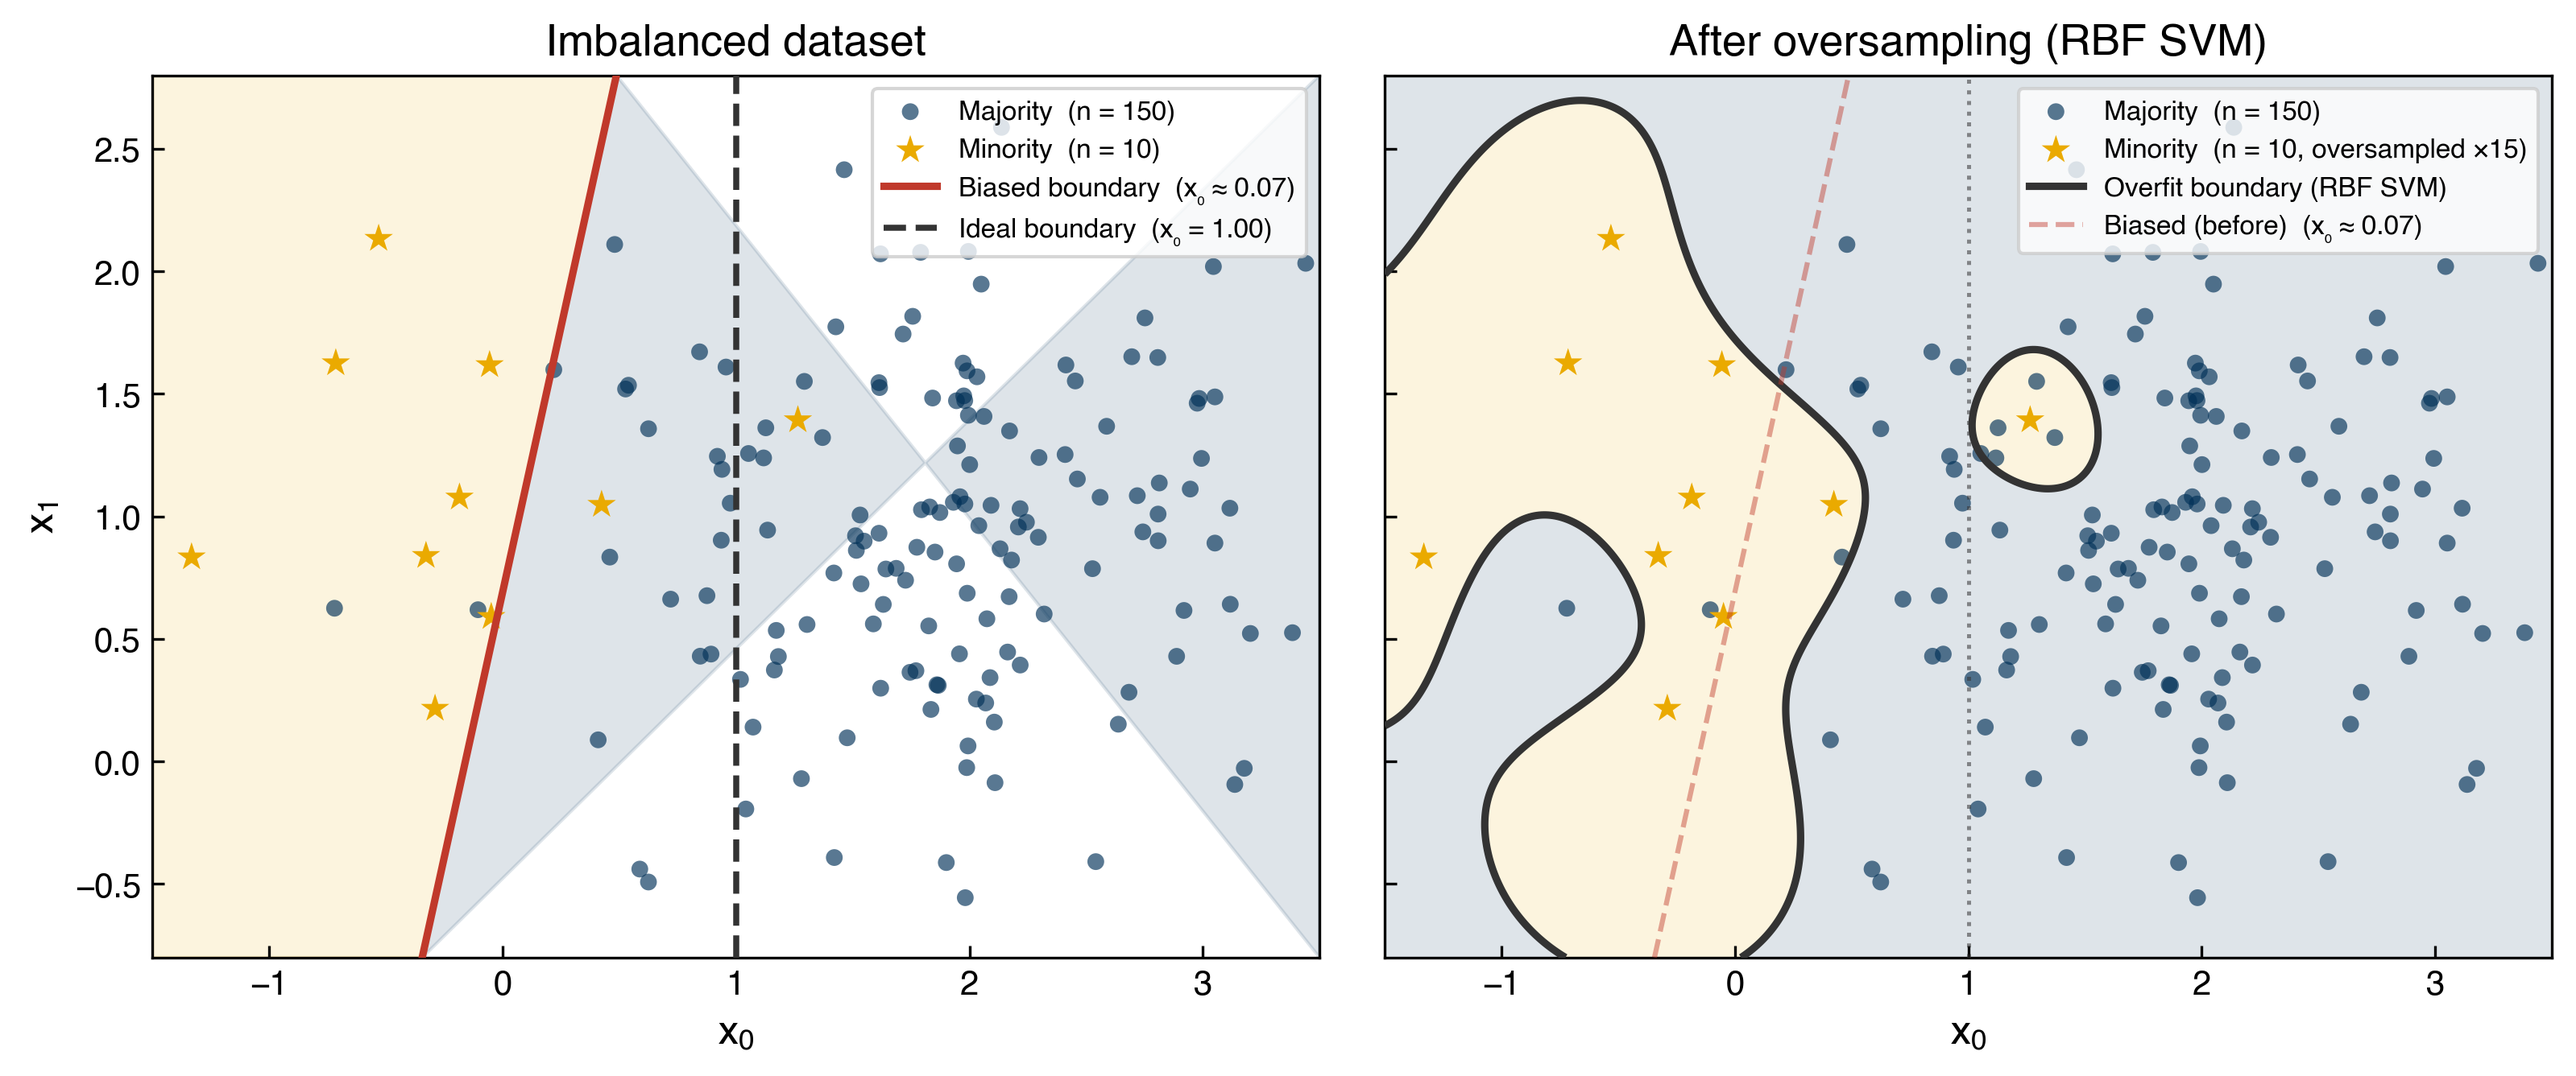
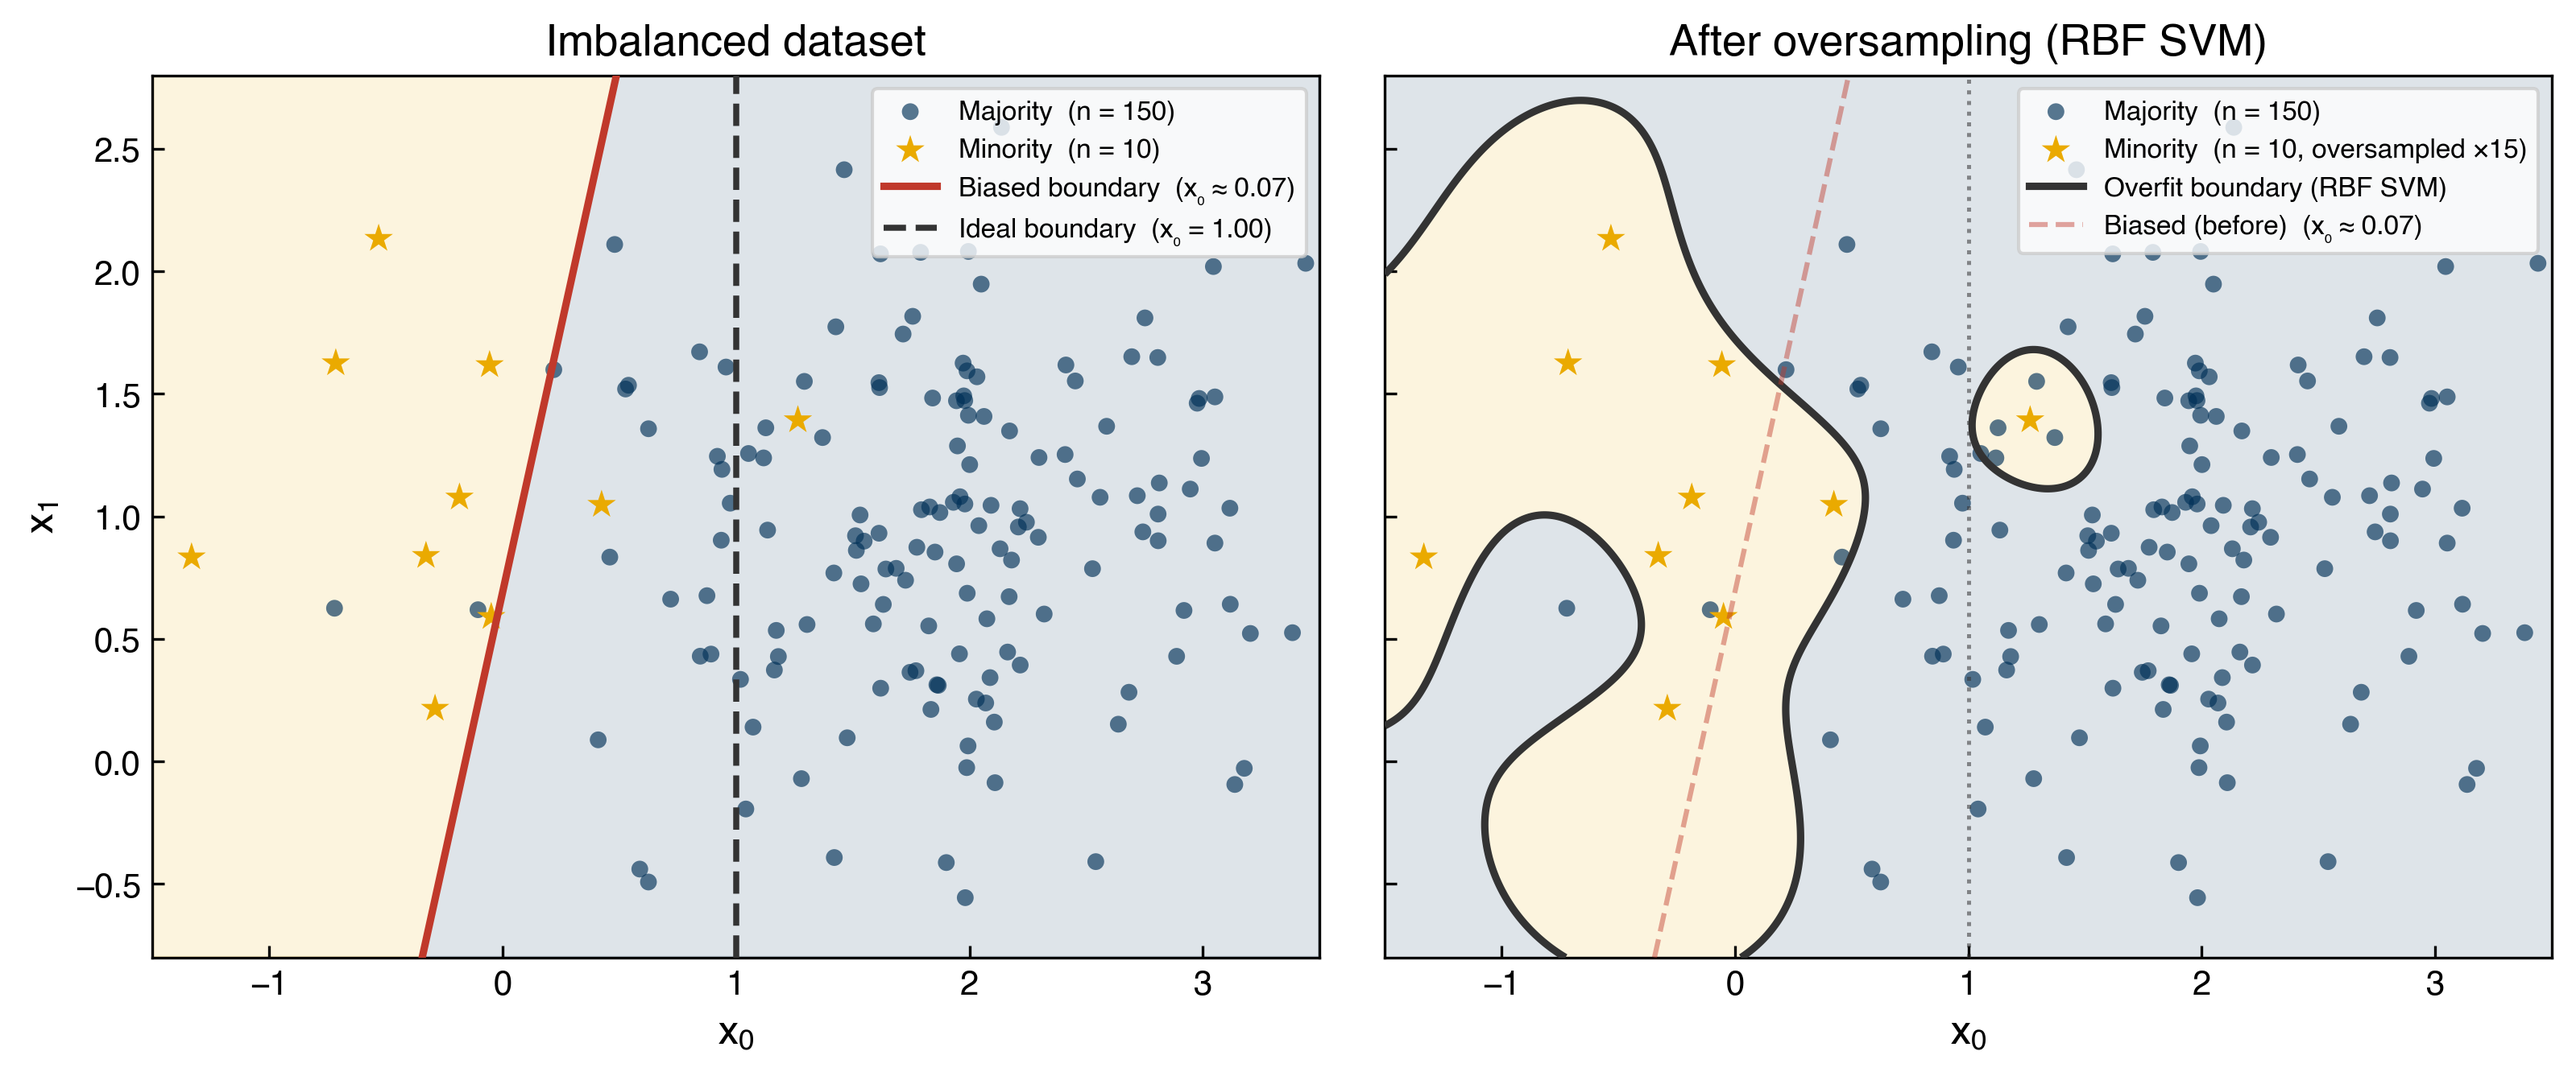
Fix self-intersecting polygon fill in undersampling/oversampling/SMOTE figures
The right half-plane polygon was constructed with reversed boundary arrays,
creating a self-intersecting path that rendered as a cross-hatch pattern.
Fix: trace boundary bottom-to-top for both polygons, anchored on opposite
sides (x_lim[0] vs x_lim[1]).

Changed region(s): [[0.1548, 0.0613, 0.5263, 0.8893]]

diff --git a/settings/helper_scripts/plot_undersampling.py b/settings/helper_scripts/plot_undersampling.py
@@ -71,10 +71,10 @@ def fill_halfplane(ax, x_boundary_fn, y_range, x_lim, color_left, color_right, a
     xx_bnd = x_boundary_fn(yy)
     xx_bnd = np.clip(xx_bnd, x_lim[0], x_lim[1])
 
-    left_poly_x  = np.concatenate([[x_lim[0]], xx_bnd, [x_lim[0]]])
-    left_poly_y  = np.concatenate([[y_range[0]], yy, [y_range[1]]])
-    right_poly_x = np.concatenate([[x_lim[1]], xx_bnd[::-1], [x_lim[1]]])
-    right_poly_y = np.concatenate([[y_range[0]], yy[::-1], [y_range[1]]])
+    left_poly_x  = np.concatenate([[x_lim[0]], xx_bnd,        [x_lim[0]]])
+    left_poly_y  = np.concatenate([[y_range[0]], yy,           [y_range[1]]])
+    right_poly_x = np.concatenate([[x_lim[1]], xx_bnd,        [x_lim[1]]])
+    right_poly_y = np.concatenate([[y_range[0]], yy,           [y_range[1]]])
 
     ax.fill(left_poly_x,  left_poly_y,  color=color_left,  alpha=alpha, zorder=0)
     ax.fill(right_poly_x, right_poly_y, color=color_right, alpha=alpha, zorder=0)

diff --git a/settings/helper_scripts/plot_smote.py b/settings/helper_scripts/plot_smote.py
@@ -105,9 +105,9 @@ def fill_halfplane(ax, x_boundary_fn, y_range, x_lim, color_left, color_right, a
     xx_bnd = np.clip(xx_bnd, x_lim[0], x_lim[1])
 
     left_poly_x  = np.concatenate([[x_lim[0]], xx_bnd, [x_lim[0]]])
-    left_poly_y  = np.concatenate([[y_range[0]], yy, [y_range[1]]])
-    right_poly_x = np.concatenate([[x_lim[1]], xx_bnd[::-1], [x_lim[1]]])
-    right_poly_y = np.concatenate([[y_range[0]], yy[::-1], [y_range[1]]])
+    left_poly_y  = np.concatenate([[y_range[0]], yy,   [y_range[1]]])
+    right_poly_x = np.concatenate([[x_lim[1]], xx_bnd, [x_lim[1]]])
+    right_poly_y = np.concatenate([[y_range[0]], yy,   [y_range[1]]])
 
     ax.fill(left_poly_x,  left_poly_y,  color=color_left,  alpha=alpha, zorder=0)
     ax.fill(right_poly_x, right_poly_y, color=color_right, alpha=alpha, zorder=0)

diff --git a/settings/helper_scripts/plot_oversampling.py b/settings/helper_scripts/plot_oversampling.py
@@ -71,9 +71,9 @@ def fill_halfplane(ax, x_boundary_fn, y_range, x_lim, color_left, color_right, a
     xx_bnd = np.clip(xx_bnd, x_lim[0], x_lim[1])
 
     left_poly_x  = np.concatenate([[x_lim[0]], xx_bnd, [x_lim[0]]])
-    left_poly_y  = np.concatenate([[y_range[0]], yy, [y_range[1]]])
-    right_poly_x = np.concatenate([[x_lim[1]], xx_bnd[::-1], [x_lim[1]]])
-    right_poly_y = np.concatenate([[y_range[0]], yy[::-1], [y_range[1]]])
+    left_poly_y  = np.concatenate([[y_range[0]], yy,   [y_range[1]]])
+    right_poly_x = np.concatenate([[x_lim[1]], xx_bnd, [x_lim[1]]])
+    right_poly_y = np.concatenate([[y_range[0]], yy,   [y_range[1]]])
 
     ax.fill(left_poly_x,  left_poly_y,  color=color_left,  alpha=alpha, zorder=0)
     ax.fill(right_poly_x, right_poly_y, color=color_right, alpha=alpha, zorder=0)
